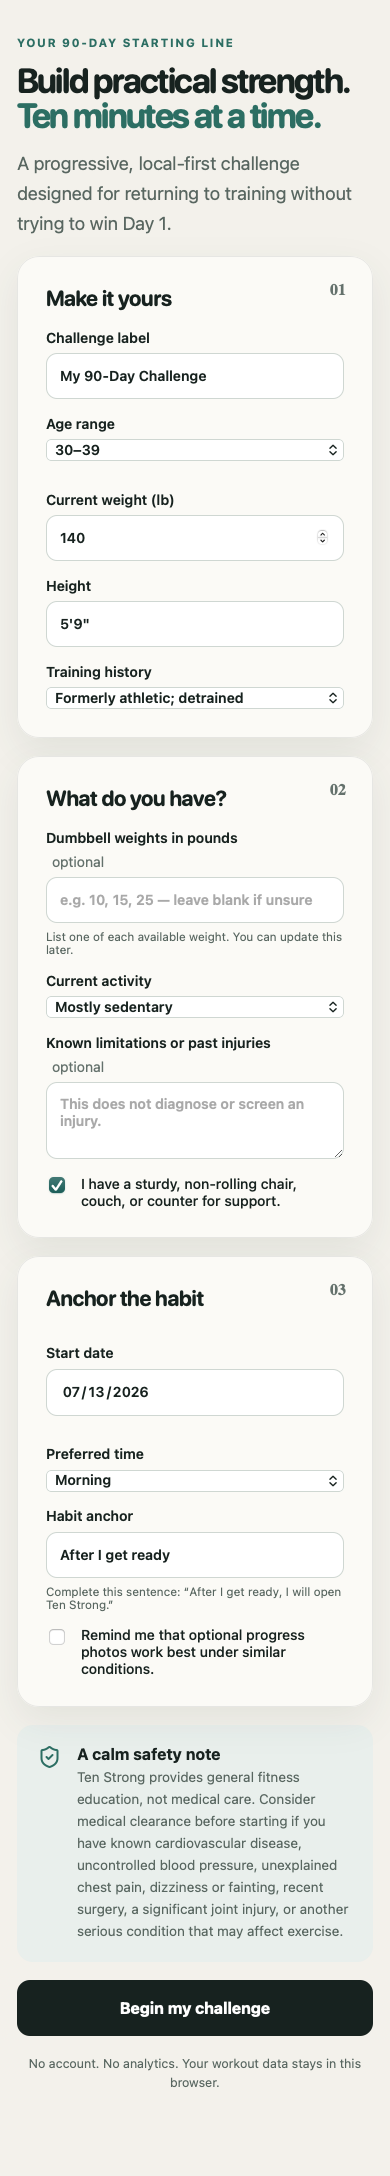
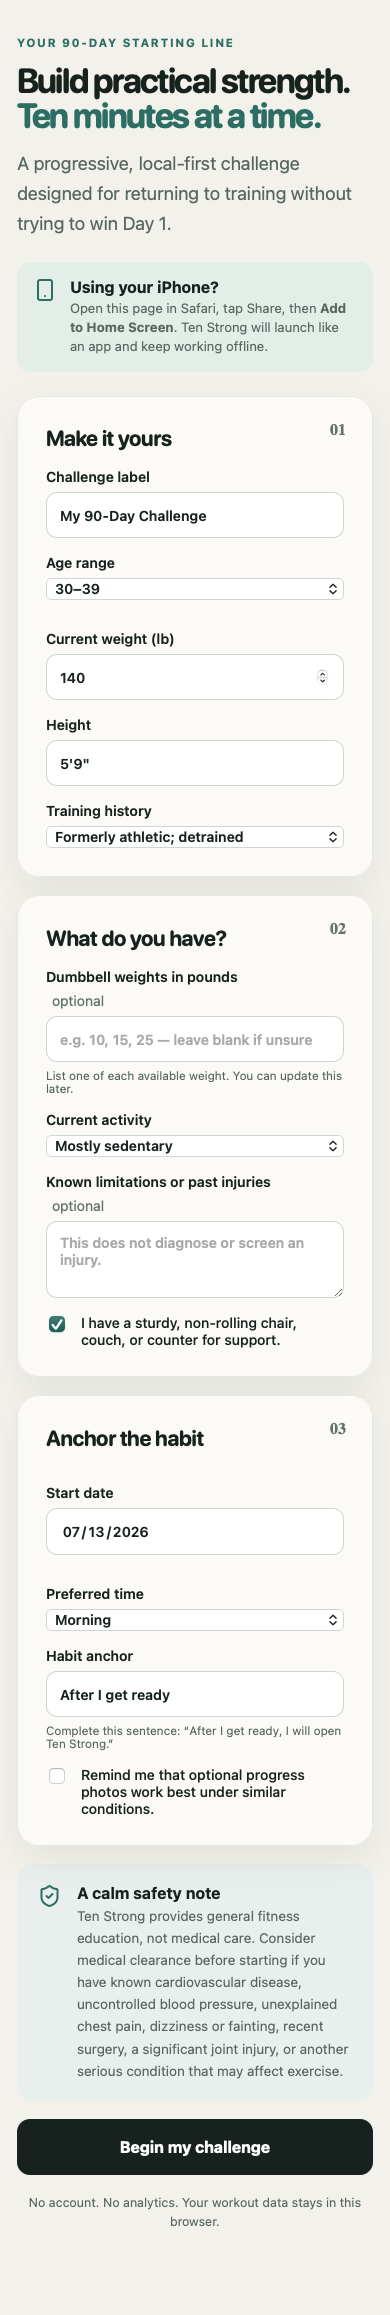
Harden mobile install and live release verification

diff --git a/src/pages/OnboardingPage.tsx b/src/pages/OnboardingPage.tsx
@@ -1,6 +1,6 @@
 import { useState, type FormEvent } from 'react'
 import { useNavigate } from 'react-router-dom'
-import { ShieldCheck } from 'lucide-react'
+import { ShieldCheck, Smartphone } from 'lucide-react'
 import { useAppState } from '../AppState'
 import type { UserProfile } from '../types'
 
@@ -19,6 +19,7 @@ export function OnboardingPage() {
     <div className="eyebrow">Your 90-day starting line</div>
     <h1>Build practical strength.<br/><em>Ten minutes at a time.</em></h1>
     <p className="lede">A progressive, local-first challenge designed for returning to training without trying to win Day 1.</p>
+    <aside className="install-nudge"><Smartphone/><div><strong>Using your iPhone?</strong><span>Open this page in Safari, tap Share, then <b>Add to Home Screen</b>. Ten Strong will launch like an app and keep working offline.</span></div></aside>
     <form onSubmit={submit} className="stack-lg">
       <section className="card form-card"><span className="step">01</span><h2>Make it yours</h2>
         <label>Challenge label<input required value={profile.label} onChange={(e)=>setProfile({...profile,label:e.target.value})}/></label>

diff --git a/e2e/challenge.spec.ts b/e2e/challenge.spec.ts
@@ -29,7 +29,7 @@ test('onboards, completes Day 1, and restores history after refresh', async ({ p
 test('pain overrides the workout and the layout does not overflow a phone viewport', async ({ page }) => {
   await page.getByRole('button',{ name:'Begin my challenge' }).click()
   await page.getByRole('button',{ name:/readiness/i }).click()
-  await expect(page.getByRole('heading',{name:'How are you arriving?'})).toBeVisible()
+  await expect(page.getByRole('dialog',{name:'How are you arriving?'})).toBeVisible()
   await page.getByRole('button',{ name:'present' }).click()
   await page.getByRole('button',{ name:/Start Day 1 early|View safety guidance/ }).click()
   await expect(page.getByRole('heading',{ name:'Stop and check the symptom.' })).toBeVisible()

diff --git a/src/App.css b/src/App.css
@@ -22,3 +22,4 @@
 .time-cap{background:#f4e7d7;border:1px solid #d9b68e;border-radius:14px;padding:17px;margin-bottom:14px}.time-cap p{font-size:.84rem;margin:4px 0 12px}.previous-performance{margin-top:10px;padding-top:10px;border-top:1px solid rgba(44,110,99,.2);font-size:.78rem;color:var(--muted)}
 .step,.optional{color:#64716c}
 .preview-row .number,.bottom-nav a{color:#596761}
+.install-nudge{display:flex;gap:13px;align-items:flex-start;margin:24px 0;padding:16px;background:#e4eee9;border-radius:14px}.install-nudge svg{color:var(--accent);flex:none}.install-nudge div{display:grid;gap:3px}.install-nudge span{font-size:.82rem;color:var(--muted);line-height:1.45}

diff --git a/docs/QA_REPORT.md b/docs/QA_REPORT.md
@@ -5,17 +5,19 @@ Date: 2026-07-12
 ## Automated results
 
 - TypeScript: passed
-- Vitest: 28 tests passed across 3 files
+- Vitest: 35 tests passed across 3 files
 - Oxlint: passed with no warnings
 - Production PWA build: passed
-- Playwright: 4 tests passed across desktop Chromium and iPhone 13 WebKit profiles
+- Playwright: 12 tests passed across desktop Chromium and iPhone 13 WebKit profiles
+- Accessibility: onboarding, Today, and active workout pass automated WCAG A/AA checks
+- Offline production test: passed
 - npm audit: 0 vulnerabilities reported at install time
 
 ## Verified critical behavior
 
 - Exactly 90 continuous program days resolve to valid templates.
 - Phase boundaries map to Days 1–14, 15–35, 36–63, 64–84, and 85–90.
-- Day 1 uses a conservative assessment; Day 89 uses comparable final tests.
+- Day 1 uses a conservative assessment; Day 90 repeats the recorded setup and produces a continuation plan.
 - Pain takes precedence over all energy, soreness, and time combinations.
 - Significant soreness takes precedence over a five-minute strength fallback.
 - Low energy and mild soreness reduce working volume.
@@ -26,6 +28,8 @@ Date: 2026-07-12
 - The critical onboarding → Day 1 → completion → refresh flow persists history.
 - An iPhone-sized viewport has no horizontal overflow on the safety path.
 - Production build emits a manifest, service worker, and offline precache.
+- GitHub Pages deployment succeeded at `https://afinoblakeb.github.io/ten-strong/`.
+- The live origin passed Chromium offline reload and WebKit mobile-width, service-worker, and precache checks.
 
 ## Visual inspection
 
@@ -33,7 +37,6 @@ Inspected the onboarding, Today, and active workout screens at 390 × 844. Typog
 
 ## Remaining manual checks before a public release
 
-- Smoke-test the final URL after its first real GitHub Pages deployment.
 - Confirm Add to Home Screen icon and standalone launch on a physical iPhone.
 - Confirm an offline relaunch on that physical device after the first successful load.
 - Run VoiceOver on a physical device through one entire workout.

diff --git a/README.md b/README.md
@@ -2,6 +2,8 @@
 
 **A 90-Day Strength Challenge built around ten intentional minutes per day.**
 
+**Live app:** [https://afinoblakeb.github.io/ten-strong/](https://afinoblakeb.github.io/ten-strong/)
+
 Ten Strong is a finished, mobile-first progressive web app for a detrained adult returning to strength training at home. It combines a complete 90-day program with a transparent rules-based progression engine, readiness adjustments, exercise substitutions, local workout logging, progress views, and offline support.
 
 No account, backend, analytics, paid API, or remote database is required. Personal data remains in the browser unless the user exports it.
@@ -12,7 +14,7 @@ No account, backend, analytics, paid API, or remote database is required. Person
 
 - Five-phase, 90-day strength plan with every day defined
 - 8–12 minute normal sessions and a dedicated five-minute fallback
-- Day 1 baseline and Day 89 comparable final assessment
+- Day 1 baseline and Day 90 comparable final assessment
 - Pain-first readiness logic, recovery days, and missed-day re-entry guidance
 - Push, pull, squat, hinge, unilateral leg, trunk, overhead, and carry coverage
 - Editable exercise library with cues, common mistakes, regressions, progressions, no-equipment alternatives, and stop conditions
@@ -52,6 +54,7 @@ npm run lint           # static lint checks
 npm test               # Vitest unit suite
 npm run test:coverage  # unit coverage report
 npm run test:e2e       # Playwright mobile + desktop critical flows
+npm run test:offline   # production build plus offline app-shell test
 npm run build          # typecheck and production PWA build
 npm run preview        # serve the production build locally
 ```
@@ -79,7 +82,7 @@ The static output is written to `dist/`. `vite.config.ts` uses `base: './'`, bun
 2. Open **Settings → Pages** in the repository.
 3. Under **Build and deployment**, select **GitHub Actions**.
 4. Push to `main`, or run the **Deploy Ten Strong to Pages** workflow manually.
-5. Open the URL reported by the deploy job.
+5. Open the URL reported by the deploy job. This repository is live at `https://afinoblakeb.github.io/ten-strong/`.
 
 The workflow runs locked dependency installation, typechecking, unit tests, lint, production build, artifact upload, and Pages deployment. Hash routing means routes such as `/#/progress` remain reliable under a repository subpath and after refresh.
 
@@ -166,7 +169,7 @@ The core training rationale is anchored in the 2026 ACSM resistance training pos
 
 - Side-specific logging and comparison for unilateral movements
 - Richer comparable-test capture for variation, support height, and range
-- Active-session timer deadlines persisted across browser termination
+- Persist the remaining seconds of an in-progress timed hold across full app termination
 - Optional encrypted device-to-device sync without an account
 - Additional low-load progression ladders and accessibility-tested movement visuals
 - Dedicated 90-day completion report with continuation blocks